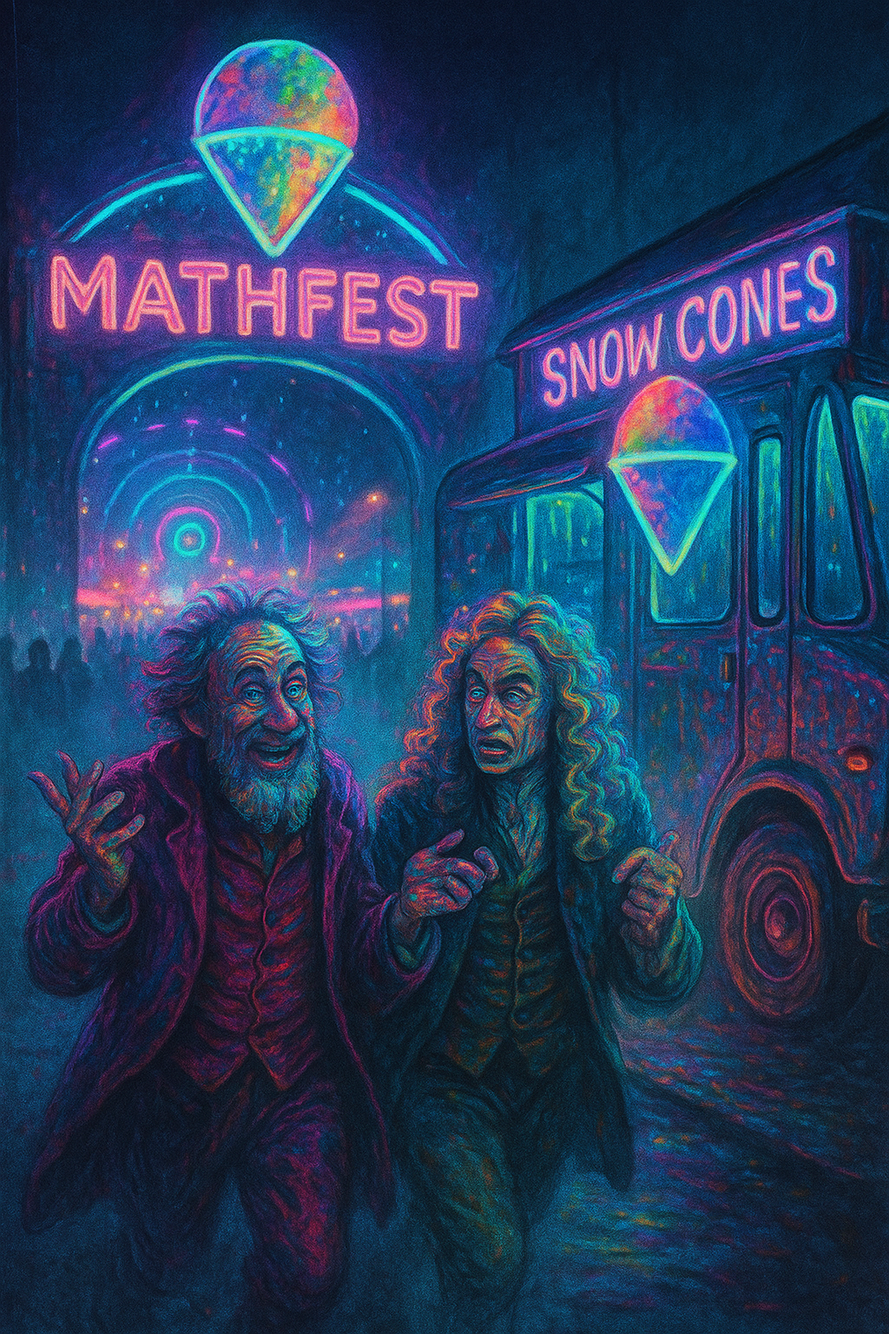
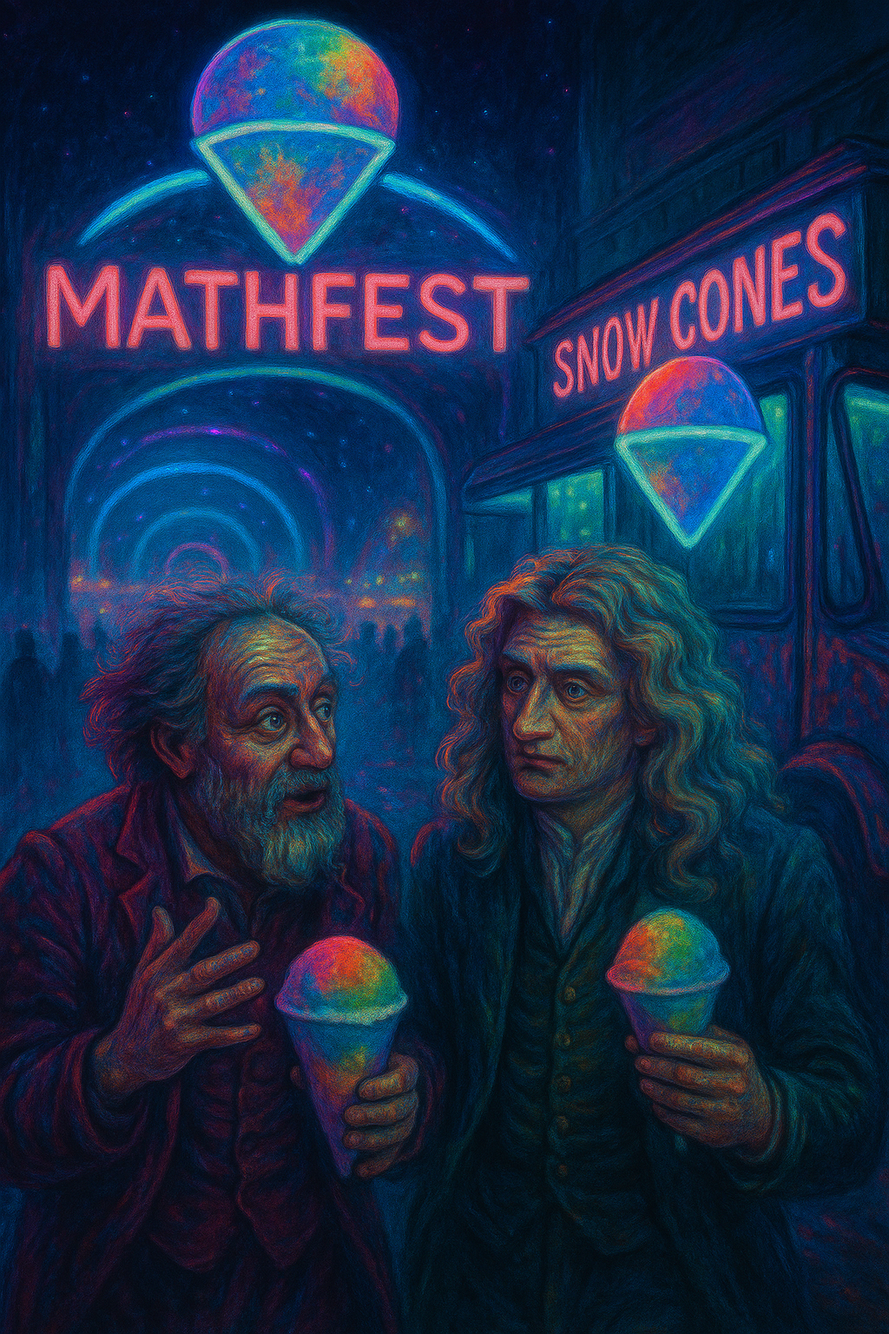
🌈 Locking in current dev state

diff --git a/src/modes/storymodeForest/storyMode.js b/src/modes/storymodeForest/storyMode.js
@@ -143,7 +143,7 @@ const PROLOGUE_PAGES = [
     type: 'html',
     html: `
       <div class="sm-slide-text">
-        <strong style="font-size:1.3em; color: yellow;">Euclid Approches the Truck</strong><br>
+        <strong style="font-size:1.3em; color: yellow;">Euclid Nears the Truck</strong><br>
         <span style="color:#00ccff;">"All structure, seen or unseen, begins with a line ✏➡📏."</span>
         He paused, tracing his proofs and figures through the void —
         <span style="color:#00ccff;">"The simplest gesture births every shape, every temple, every constellation above.
@@ -154,13 +154,13 @@ const PROLOGUE_PAGES = [
       </div>`
   },
   // Page 6 — Euclid image
-  { type: 'image', src: PRO_IMG('euclidpicture.png'), caption: "Euclid Perfects the Cone" },
+  { type: 'image', src: PRO_IMG('euclidpicture.png'), caption: "Euclid Almost Doesn't Hear My Call..." },
   {
     type: 'html',
     html: `
       <div class="sm-slide-text">
         <strong style="font-size:1.3em; color: yellow;">Euclid Recieves the Cone</strong><br>
-        By connecting the two dots in front of him, Euclid wasn’t merely drawing — he was weaving the very fabric of
+        By connecting the two dots between us, Euclid wasn’t merely drawing — he was weaving the very fabric of
         existence into patterns the mind could grasp. He almost didn't see the SnowCone I was handing him 🍧 —
         but the glistening crystals in the concert light were enough to catch his eye.
         <img src="${PRO_IMG('euclidCone.png')}"alt="Euclid with Cone" class="sm-slide-image sm-slide-euclid">
@@ -186,7 +186,6 @@ const PROLOGUE_PAGES = [
           "Next, Euclid sketches the perfect SnowCone: two equal sides of 6 cm and a top edge of 4 cm. " +
           "<span style='color:#00ccff'>“What’s the perimeter of this neon triangle?”</span> 🤔📏",
         answer: `16 cm (6 + 6 + 4 = 16) <span style='color:#00ccff;'>▽</span>!!
-                <br>
                 <img src="${PRO_IMG('cosmicCone.png')}" alt="cosmic cone" class="sm-cone-inline">`,
         sfx: 'smDing2'
       }
@@ -199,15 +198,45 @@ const PROLOGUE_PAGES = [
     type: 'html',
     html: `
       <div class="sm-slide-text">
-        <strong style="font-size:1.2em; color: yellow;">Galileo &amp; Newton — Symphony of Motion</strong><br>
-        <span style='color: white;'>Galileo:</span> <span style='color: #00ccff;'>\"Everything moves if you watch carefully enough 🎵🔭. Even what seems at rest is weaving through space at unimaginable speeds—the Earth spins, the Moon orbits, and light itself races across the void. Observation is the instrument that reveals the hidden dance of the cosmos.\"</span><br>
-        <span style='color: white;'>Newton:</span> <span style='color: #00ccff;'>\"And every motion has a cause 🪐⚙. Forces sculpt the tapestry of reality: gravity pulls apples and planets alike, inertia resists every change, and for every action there’s an equal echo. Even the unseen hand of attraction shapes the universe’s grand ballet.\"</span><br><br>
-        I slung two neon SnowCones 🍧🍧 and wondered how to measure the speed of their cosmic stroll. 🚶🚶♂
+        <strong style="font-size:1.2em; color: yellow;">Galileo Awaits Newton</strong><br>
+        <img src="${PRO_IMG('galileoStar.png')}" alt="Gstars"
+            class="sm-slide-image sm-slide-legend sm-bump-galileo">
+        <span style='color: white;'>Galileo:</span>
+        <span style='color: #00ccff;'>\"Everything moves if you watch carefully enough 🎵🔭. Even what seems at rest is weaving through space at unimaginable speeds—the Earth spins, the Moon orbits, and light itself races across the void. Observation is the instrument that reveals the hidden dance of the cosmos.\"</span><br>
       </div>`
   },
 
+
+  {
+    type: 'html',
+    html: `
+      <div class="sm-slide-text">
+        <strong style="font-size:1.2em; color: yellow;">Newton Arrives!</strong><br><br>
+        <span style='color: white;'>Newton:</span> <span style='color: #00ccff;'>\"And every motion has a cause 🪐⚙. Forces sculpt the tapestry of reality: gravity pulls apples and planets alike, inertia resists every change, and for every action there’s an equal echo. Even the unseen hand of attraction shapes the universe’s grand ballet.\"</span><br>
+        <img src="${PRO_IMG('newtonSky.png')}" alt="newton" class="sm-slide-image sm-slide-legend">
+      </div>`
+  },
+
+
+  {
+    type: 'html',
+    html: `
+      <div class="sm-slide-text">
+        <strong style="font-size:1.2em; color: yellow;">SnowCone Solutions!</strong><br>
+        I slung two neon SnowCones 🍧🍧 and wondered how they would ever measure the speed of their cosmic stroll. 🚶🚶♂<br>
+
+        <img src="${PRO_IMG('jehnk2Cones.png')}" alt="2 cones" class="sm-slide-image sm-slide-legend">
+
+        It was at that point I felt the festival’s math begin click into place:  
+        <em>observe → compare → solve</em>.  
+        The heat of the festival pushes the cone, the chill of the cone pushes back — equal echoes, opposite ways ♻.  
+        <span style="color:#9ff;">(action ⇄ reaction)</span>
+      </div>`
+  },
+
+
   // Page 9 — Galileo & Newton image
-  { type: 'image', src: PRO_IMG('galileonewtonpicture.png'), caption: "Galileo & Newton discussing motion" },
+  { type: 'image', src: PRO_IMG('galileonewtonpicture.png'), caption: "Galileo & Newton discussing how we all got there..." },
 
   // Page 10 — Galileo/Newton practice
   {
@@ -215,14 +244,14 @@ const PROLOGUE_PAGES = [
     title: "Practice Problems 🍧🚀",
     items: [
       {
-        prompt: "I informed Galileo that my neon snow cone truck cruised to the MathFest at a steady pace: I traveled 60 miles in 2 hours. He asked, <span style='color: #00ccff;'>\"What was your average speed?\"</span> 🤔🚚<br>",
-        answer: "30 mph (Speed = Distance ÷ Time = 60 ÷ 2)<br> Dude, that’s like a cosmic cruise! 🚀",
+        prompt: "I informed Galileo that my neon SnowCone truck cruised to the entrance at a steady pace: I traveled 60 miles in 2 hours. He asked, <span style='color: #00ccff;'>\"What was your average speed?\"</span> 🤔🚚<br>",
+        answer: "30 mph (Speed = Distance ÷ Time = 60 ÷ 2)<br> Dude, I thought I'de never get in! 🚀",
         sfx: 'smDing'
       },
       {
         prompt: "<strong style='font-size:1.1em; color: yellow;'>Follow-Up 🍧🔍</strong><br>" +
-        "Newton asked, <span style='color: #00ccff;'>\"If you kept rolling at that speed, how far would you cruise in 5 hours?\"</span> 🤔📏<br>",
-        answer: "150 miles (30 × 5)<br> tis but a cosmic hop! 🌌",
+        "Newton asked, <span style='color: #00ccff;'>\"If you kept rolling at 30mph, how far would you cruise in 5 hours?\"</span> 🤔📏<br>",
+        answer: "150 miles (30 × 5)<br> Glad the line wasn't that long! 🌌",
         sfx: 'smDing2'
       }
     ]
@@ -233,16 +262,31 @@ const PROLOGUE_PAGES = [
     type: 'html',
     html: `
       <div class="sm-slide-text">
-        <strong style="font-size:1.2em; color: yellow;">Turing &amp; Brahmagupta — Secrets and Silence</strong><br>
-        I almost lost myself in the motion of the music, but then I heard Turing speak softly,
+        <strong style="font-size:1.2em; color: yellow;">Turing &amp; A Friend Walk On By</strong><br>
+        <img src="${PRO_IMG('breeze.png')}"alt="breeze" class="sm-slide-image sm-slide-euclid">
+        I almost lost myself in the motion of the music, but then I heard Turing speaking softly,
         <span style='color: #00ccff;'>\"Every puzzle is a hidden message, encoded in the patterns of the world. From the fluttering of a breeze to the circuits of a machine. Each mathematical proof, carries its own secret that reveals the logic behind chaos.\"</span><br><br>
-        Brahmagupta smiled and spoke more softly, <span style='color: #00ccff;'>\"And every silence is full of numbers, each pause a zero, each gap a canvas for infinity. By listening to the stillness, we trace the balance of forces that govern both sand-grains and galaxies.\"</span><br><br>
+      </div>`
+  },  
+  
+  // Page 11A — Turing & Brahmagupta text
+  {
+    type: 'html',
+    html: `
+      <div class="sm-slide-text">
+        <strong style="font-size:1.2em; color: yellow;">The Friend, Brahmagupta, Smiled...</strong><br>
+        <img 
+          src="${PRO_IMG('bram.png')}" 
+          alt="bram" 
+          class="sm-slide-image sm-slide-image-bram"
+        />
+        ...and spoke even more softly, <span style='color: #00ccff;'>\"Every silence is full of numbers, each pause a zero, each gap a canvas for infinity. By listening to the stillness, we trace the balance of forces that govern both sand-grains and galaxies.\"</span><br><br>
         I quickly realized that gaps and zeros in life are clues, not emptiness. Math isn't just numbers; it’s the story of life itself, waiting for a curious mind to unfold it.
       </div>`
   },
 
   // Page 12 — Turing/Brahmagupta image
-  { type: 'image', src: PRO_IMG('turingbrahmaguptapicture.png'), caption: "Turing & Brahmagupta: the chaos of nothingness" },
+  { type: 'image', src: PRO_IMG('turingbrahmaguptapicture.png'), caption: "Turing & Brahmagupta ponder the chaos of nothingness..." },
 
   // Page 13 — Turing/Brahmagupta practice
   {
@@ -256,7 +300,7 @@ const PROLOGUE_PAGES = [
       },
       {
         prompt: "Brahmagupta heard me say I couldn't stack that many scoops and asked Turing: <span style='color: #00ccff;'>\"What happens when a whole scoop is multiplied or divided by 0?\"</span> 🤔<br>",
-        answer: "It melts into nothing! (ZThe scoops are reduced by the silence.)",
+        answer: "It melts into nothing! (The scoops are reduced by the silence.)",
         sfx: 'smDing2'
       }
     ]
@@ -581,7 +625,7 @@ function renderPrologueReader() {
           </div>
           <div class="sm-prologue-controls">
             <button id="smSkipType" class="sm-btn sm-btn-secondary">⏩ Skip</button>
-            <button id="smReady" class="sm-btn sm-btn-primary" style="display:none">I’m Ready</button>
+            <button id="smReady" class="sm-btn sm-btn-primary" style="display:none">I’m Ready 🎵</button>
           </div>
         </section>
       </div>

diff --git a/src/modes/storymodeForest/storyMode.css b/src/modes/storymodeForest/storyMode.css
@@ -527,3 +527,60 @@
   margin: 6px auto 0;
   pointer-events: none; /* don't steal taps */
 }
+
+.sm-slide-image-bram {
+  width: clamp(200px, 30vw, 280px); /* bigger just for Bram */
+  max-height: 45vh;
+  object-fit: contain;
+}
+/* Slightly larger hero images for specific story slides */
+.sm-slide-image.sm-slide-legend {
+  /* comfortably bigger than default Euclid shrink, still within text width */
+  max-width: 76%;
+  /* keep proportions & center */
+  height: auto;
+  margin: 1.2vh auto 0;
+}
+
+/* Optionally, nudge up a hair on taller screens */
+@media (min-height: 780px) {
+  .sm-slide-image.sm-slide-legend { max-width: 78%; }
+}
+.sm-slide-image[alt="Gstars"] {
+  max-width: 80% !important;
+}
+
+
+/* Galileo PNG likely has transparent margins; give him a visual boost */
+.sm-bump-galileo {
+  transform: scale(1.18);          /* subtle, looks natural */
+  transform-origin: center center;
+}
+
+/* Tall screens can handle a hair more */
+@media (min-height: 800px) {
+  .sm-bump-galileo { transform: scale(1.24); }
+}
+
+/* Absolute last-resort specificity nuke (if some other CSS still wins) */
+.sm-slide-text .sm-slide-image.sm-slide-legend.sm-bump-galileo {
+  max-width: 88% !important;
+}
+/* Extra breathing room for the bigger "legend" portraits */
+.sm-slide-image.sm-slide-legend {
+  max-width: 86% !important;
+  height: auto;
+  margin: 1.2vh auto 2.2vh;  /* ⬅ bottom margin pushes text down */
+  display: block;
+}
+
+/* Galileo’s boosted version gets even more space */
+.sm-slide-image.sm-bump-galileo {
+  transform: scale(1.18);
+  transform-origin: center center;
+  margin-bottom: 5vh;  /* give text more clearance */
+}
+/* Add breathing room between slide titles and their image */
+.sm-slide-text strong + br + .sm-slide-image {
+  margin-top: 4vh;   /* adjust to taste */
+}
